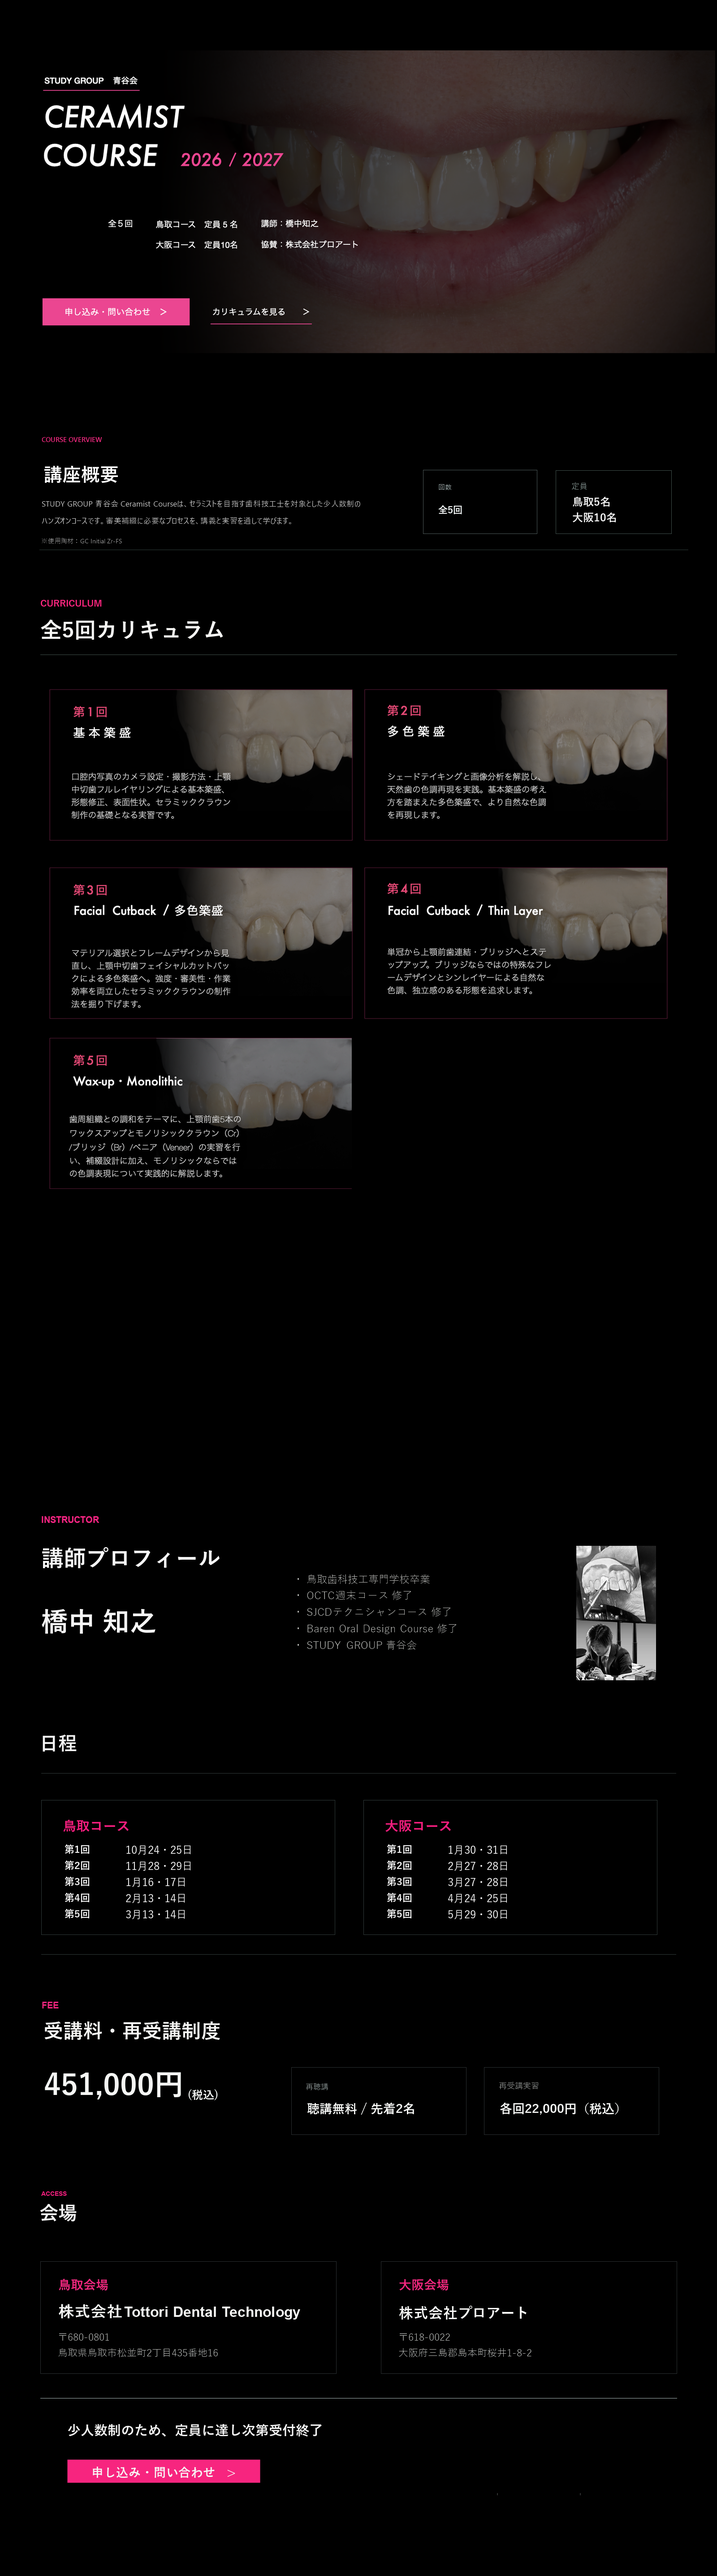
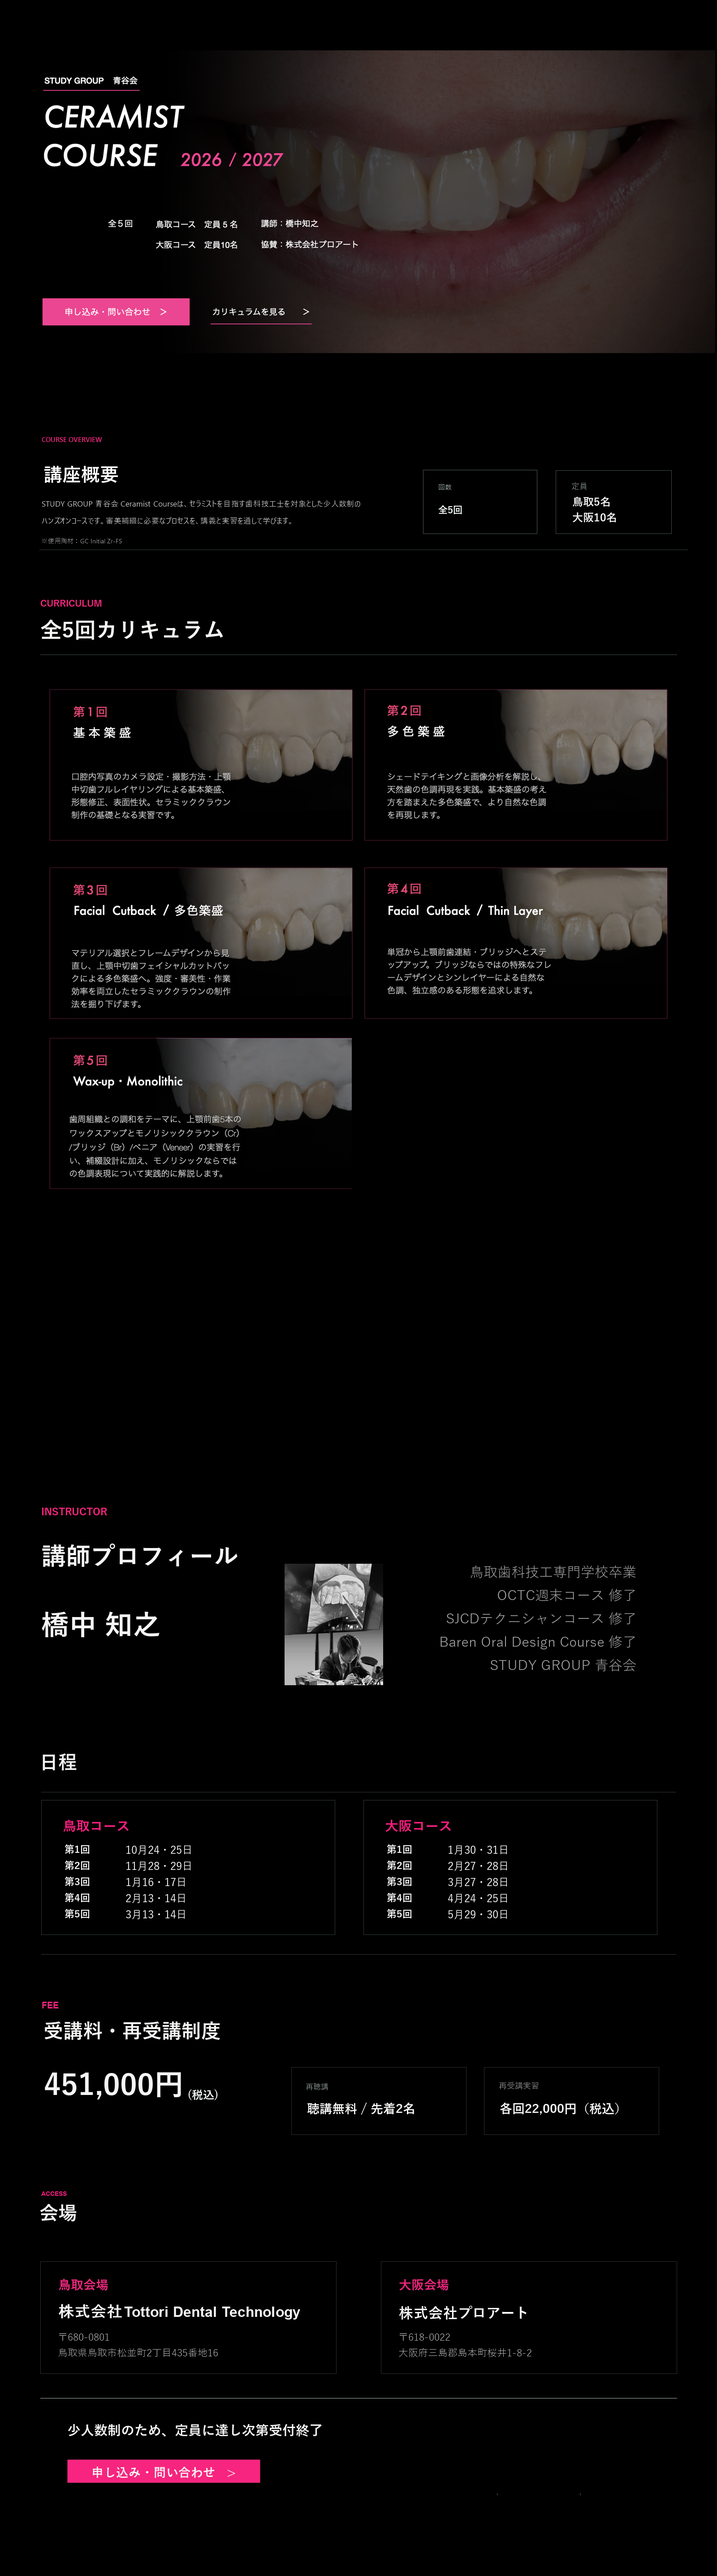
Add files via upload

Changed region(s): [[0.375, 0.5919, 0.5625, 0.6542], [0.0625, 0.5607, 0.2188, 0.6853], [0.7812, 0.5919, 0.9375, 0.6542]]

diff --git a/index.html b/index.html
@@ -46,15 +46,14 @@
       background: transparent;
     }
 
-    .hotspot:focus-visible,
-    .contact-mail:focus-visible {
+    .hotspot:focus-visible {
       outline: 2px solid var(--accent);
       outline-offset: 4px;
     }
 
     #curriculum {
       position: absolute;
-      top: 24.0%;
+      top: 28.9%;
       left: 0;
       width: 1px;
       height: 1px;
@@ -62,41 +61,23 @@
 
     .hero-entry {
       left: 5.55%;
-      top: 11.55%;
-      width: 21.2%;
-      height: 1.2%;
+      top: 11.78%;
+      width: 20.1%;
+      height: 1.1%;
     }
 
     .hero-curriculum {
       left: 28.0%;
-      top: 11.75%;
-      width: 16.3%;
-      height: 1.05%;
+      top: 11.93%;
+      width: 14.0%;
+      height: 0.9%;
     }
 
     .bottom-entry {
-      left: 9.4%;
-      top: 95.55%;
-      width: 26.9%;
-      height: 1.0%;
-    }
-
-    .contact-mail {
-      position: absolute;
-      z-index: 3;
-      left: 9.4%;
-      top: 96.72%;
-      color: rgba(255, 255, 255, 0.7);
-      font-size: clamp(9px, 0.8vw, 13px);
-      font-weight: 400;
-      line-height: 1.5;
-      letter-spacing: 0;
-      text-decoration: none;
-      white-space: nowrap;
-    }
-
-    .contact-mail span {
-      color: rgba(255, 255, 255, 0.52);
+      left: 8.5%;
+      top: 95.45%;
+      width: 25.0%;
+      height: 1.05%;
     }
   </style>
 </head>
@@ -126,12 +107,6 @@
       rel="noopener noreferrer"
       aria-label="申し込み・問い合わせフォームを開く"
     >申し込み・問い合わせ</a>
-
-    <a
-      class="contact-mail"
-      href="mailto:aoyakai.practice@gmail.com"
-      aria-label="お問い合わせメールを送る"
-    ><span>お問い合わせ：</span>aoyakai.practice@gmail.com</a>
   </main>
 </body>
 </html>
